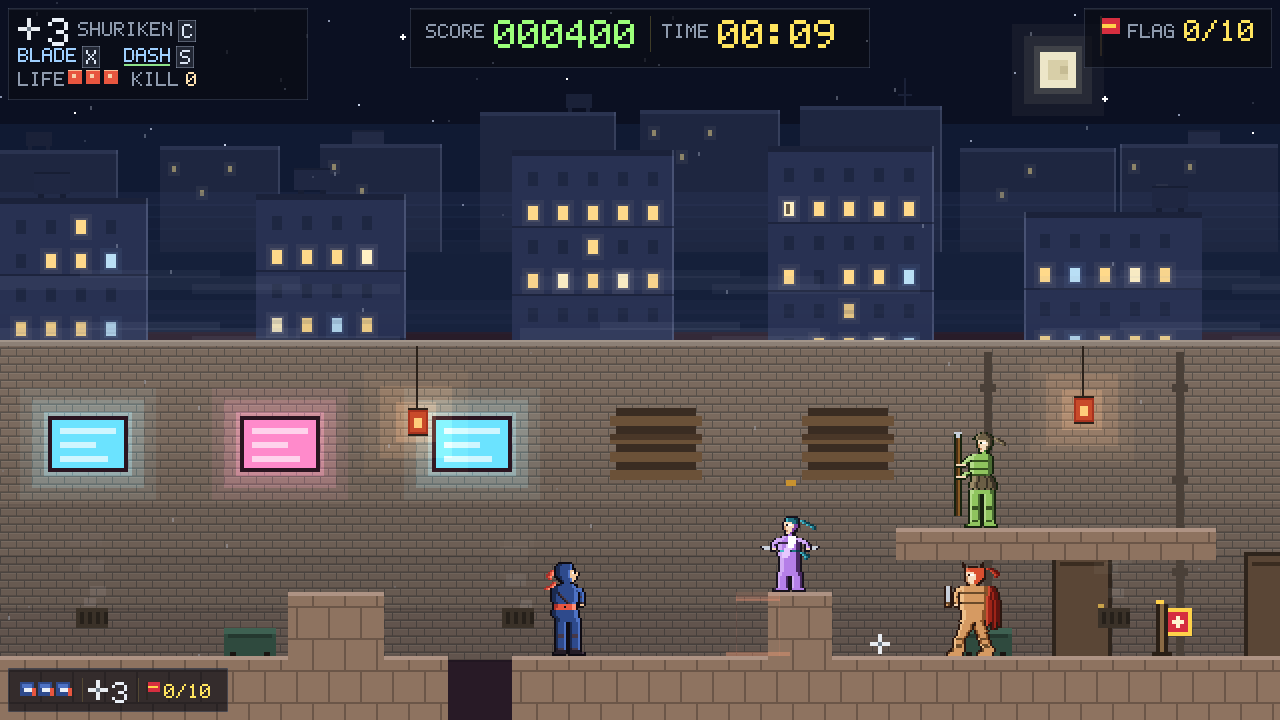
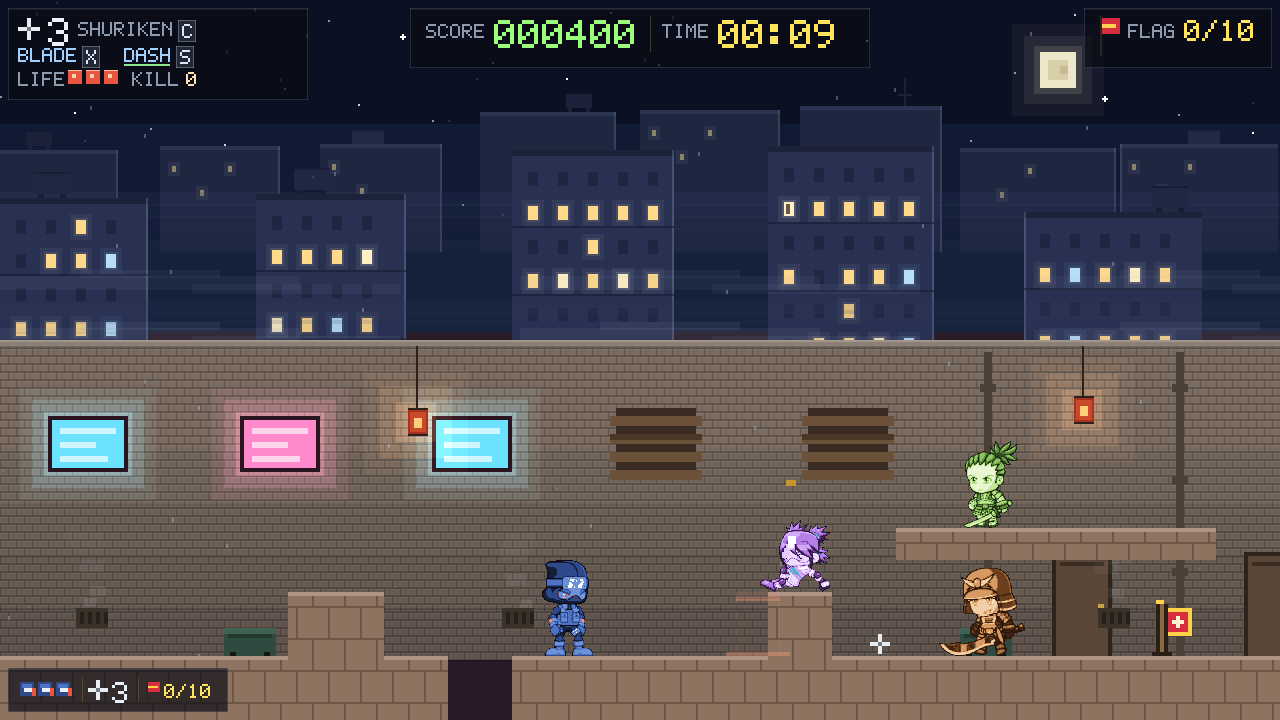
feat: idle motion for standing enemies, and one weapon per enemy
STANDING STILL IS NOW TWO FRAMES. An enemy that was neither walking nor
attacking held one pixel-identical pose, which for a posted guard is its entire
screen time and which reads as a cut-out in an alley that moves. enemyGait
alternates base/idleB on the enemy's own animTime -- seeded i * 0.11 in
resetEnemies, so a line of guards does not pulse as one object. The player has
had exactly this since the beginning; the enemies never did.

idleB is a real second frame out of each pack's own idle animation, with a
generated one-row breathe() as the built-in fallback. The FH packs' Stand is a
five-frame ping-pong, so the extremes 0 and 4 are used: frame 3 was a pixel from
frame 0 and the alternation was invisible.

AND THE CODE-DRAWN REST WEAPON IS GONE, which is the other half of this. It was
written first -- a blade held at rest, lifting and settling on a slow cycle --
and the art made it wrong. The built-in pixel arrays carry a weapon as a few
pixels of steel in the palette; the replacement sprites HOLD one, the samurai a
katana in both hands and the rusher a blade at her hip. A stroke drawn over them
put a SECOND weapon on every standing enemy: two blades on a body with two
hands. The idle motion belongs in the pose, and the artist had already drawn it.

The attack strokes stay. Those are motion -- an arc where the blade travelled,
over a sprite that cannot animate its own swing -- and they read as blur rather
than as another object.
[…]

diff --git a/frontend/index.html b/frontend/index.html
@@ -2651,8 +2651,28 @@ function validatePose(name, rows, cols, height) {
    Added before validatePose runs, deliberately: a generated pose is held to the
    same 32x48 contract as a hand-drawn one, and squat() preserving the row count
    is a property worth having checked rather than assumed. */
+/* IDLE B: the second frame of a standing enemy.
+   A body that holds one pixel-identical pose while the alley moves around it
+   reads as a cut-out, and every enemy in the game did that whenever it was not
+   walking or attacking -- which for a posted guard is all the time.
+
+   One row of shift is enough. The content moves down a pixel and the FEET stay
+   where they are, so it is a body settling on its stance rather than the whole
+   sprite sliding; at 44px that is a breath. The player has had exactly this
+   since the beginning (NINJA_IDLE / NINJA_IDLE_B) and the enemies never did.
+
+   Generated, like `coil`, so it costs no art -- and supplied properly by the
+   atlas, which takes a real second frame out of the source Idle animation. */
+function breathe(rows) {
+  const blank = ".".repeat(rows[0].length);
+  const feet = rows.slice(rows.length - 2);
+  const body = rows.slice(0, rows.length - 3);
+  return [blank, ...body, ...feet];
+}
+
 for (const kind in ENEMY_POSES) {
   ENEMY_POSES[kind].coil = squat(ENEMY_POSES[kind].base, 9);
+  ENEMY_POSES[kind].idleB = breathe(ENEMY_POSES[kind].base);
 }
 
 for (const n in NINJA_POSES) validatePose(n, NINJA_POSES[n], NINJA_COLS, NINJA_ROWS);
@@ -5793,7 +5813,11 @@ function poseNameOf(e) {
 // Two-frame gait, offset per enemy by its animTime seed so a group does not
 // march in lockstep. Previously enemies slid along with no footfall at all.
 function enemyGait(e) {
-  return isWalking(e) ? walkFrame(e) : "base";
+  if (isWalking(e)) return walkFrame(e);
+  // Standing still is still two frames. animTime is seeded per enemy in
+  // resetEnemies (i * 0.11), so a row of guards breathes out of step rather
+  // than pulsing as one object.
+  return (Math.floor(e.animTime * IDLE_FPS) % 2) ? "idleB" : "base";
 }
 
 // The LOCAL pose name; drawEntities() looks it up under the enemy's own kind.
@@ -6788,6 +6812,23 @@ function drawHazardZones() {
     ctx.fillRect(x, y, hair * 2, h.h);
   }
 }
+
+/* NO CODE-DRAWN WEAPON AT REST.
+   There was one here, and it was wrong the moment the art arrived. The built-in
+   pixel arrays carry a weapon as a few pixels of steel in the palette; the
+   replacement sprites HOLD one -- the samurai a katana in both hands, the
+   rusher a blade at her hip -- so a stroke drawn over them put a second weapon
+   on every standing enemy. Two blades on a body with two hands.
+
+   The idle motion comes from the POSE instead, which is where it belonged:
+   enemyGait alternates base/idleB, and idleB is a real second frame out of each
+   pack's own idle animation rather than anything this file invents. The one
+   thing a resting enemy needed was to stop being pixel-identical, and the
+   artist already drew that.
+
+   The ATTACK strokes stay. Those are motion -- an arc where the blade travelled
+   over a sprite that cannot animate its own swing -- and they read as blur
+   rather than as a second object. */
 
 function drawEnemyWeapon(e) {
   const dir = e.facing > 0 ? 1 : -1;

diff --git a/frontend/tools/pack_assets.py b/frontend/tools/pack_assets.py
@@ -499,6 +499,9 @@ CAST = [
          outline="#17121C", white="#FFFFFF",
          poses={
              "base":     ("Idle__", 0),
+             # A real second idle frame, so a standing enemy breathes on the
+             # artist's own animation rather than on a generated pixel shift.
+             "idleB":    ("Idle__", 5),
              "walkA":    ("Run__", 3), "walkB": ("Run__", 6),
              "walkC":    ("Run__", 8), "walkD": ("Run__", 0),
              "leap":     ("Jump__", 4),
@@ -548,6 +551,7 @@ CAST = [
          outline="#2A1710", white="#FFFFFF",
          poses={
              "base":  ("Stand", 0),
+             "idleB": ("Stand", 4),
              "walkA": ("Run", 2), "walkB": ("Run", 0),
              "walkC": ("Run", 4), "walkD": ("Run", 1),
              "attack": ("Attack2H", 5),
@@ -574,6 +578,7 @@ CAST = [
          outline="#16220F", white="#FFFFFF",
          poses={
              "base":  ("Stand", 0),
+             "idleB": ("Stand", 4),
              "walkA": ("Run", 2), "walkB": ("Run", 0),
              "walkC": ("Run", 4), "walkD": ("Run", 1),
              "aim":   ("Alert1H", 0),
